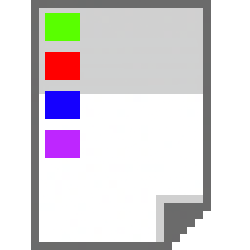
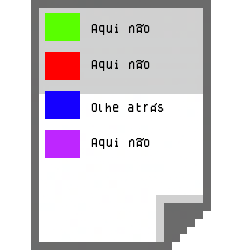
alavanca

diff --git a/cliente/js/cena-principal.js b/cliente/js/cena-principal.js
@@ -829,6 +829,10 @@ export default class principal extends Phaser.Scene {
       if (artefatos.vazio) {
         this.vazio1.enableBody(true, 3562, 8290, true, true);
       }
+
+      if (artefatos.vazio) {
+        this.vazio3.enableBody(true, 7472, 7129, true, true);
+      }
     });
 
     this.vida = 3;
@@ -878,7 +882,8 @@ export default class principal extends Phaser.Scene {
 
     this.vazio3 = this.physics.add
       .sprite(7468, 7100, "vazio")
-      .setImmovable(true);
+      .setImmovable(true)
+      .disableBody(true, true);
 
     this.physics.add.collider(
       this.jogador_1,
@@ -1072,8 +1077,8 @@ export default class principal extends Phaser.Scene {
     this.cameras.main.fadeOut(250);
     this.cameras.main.once("camerafadeoutcomplete", (camera) => {
       camera.fadeIn(250);
-      this.jogador_1.x = 3600;
-      this.jogador_1.y = 7975;
+      this.jogador_1.x = 3064;
+      this.jogador_1.y = 2993;
     });
   }
 
@@ -1099,9 +1104,9 @@ export default class principal extends Phaser.Scene {
   }
 
   mostrar_inventario() {
-    console.log("inventário");
+    console.log("papel_quadros");
     this.inventario = this.add
-      .image(this.jogador_1.x, this.jogador_1.y, "inventario")
+      .image(this.jogador_1.x, this.jogador_1.y, "papel_quadros")
       .setInteractive()
       .on("pointerdown", () => {
         this.inventario.destroy();
@@ -1122,6 +1127,6 @@ export default class principal extends Phaser.Scene {
     this.game.socket.emit("artefatos-publicar", this.game.sala, {
       vazio: true,
     });
-    this.vazio1.enableBody(true, 3562, 8290, true, true);
+    this.vazio3.enableBody(true, 7472, 7129, true, true);
   }
 }
